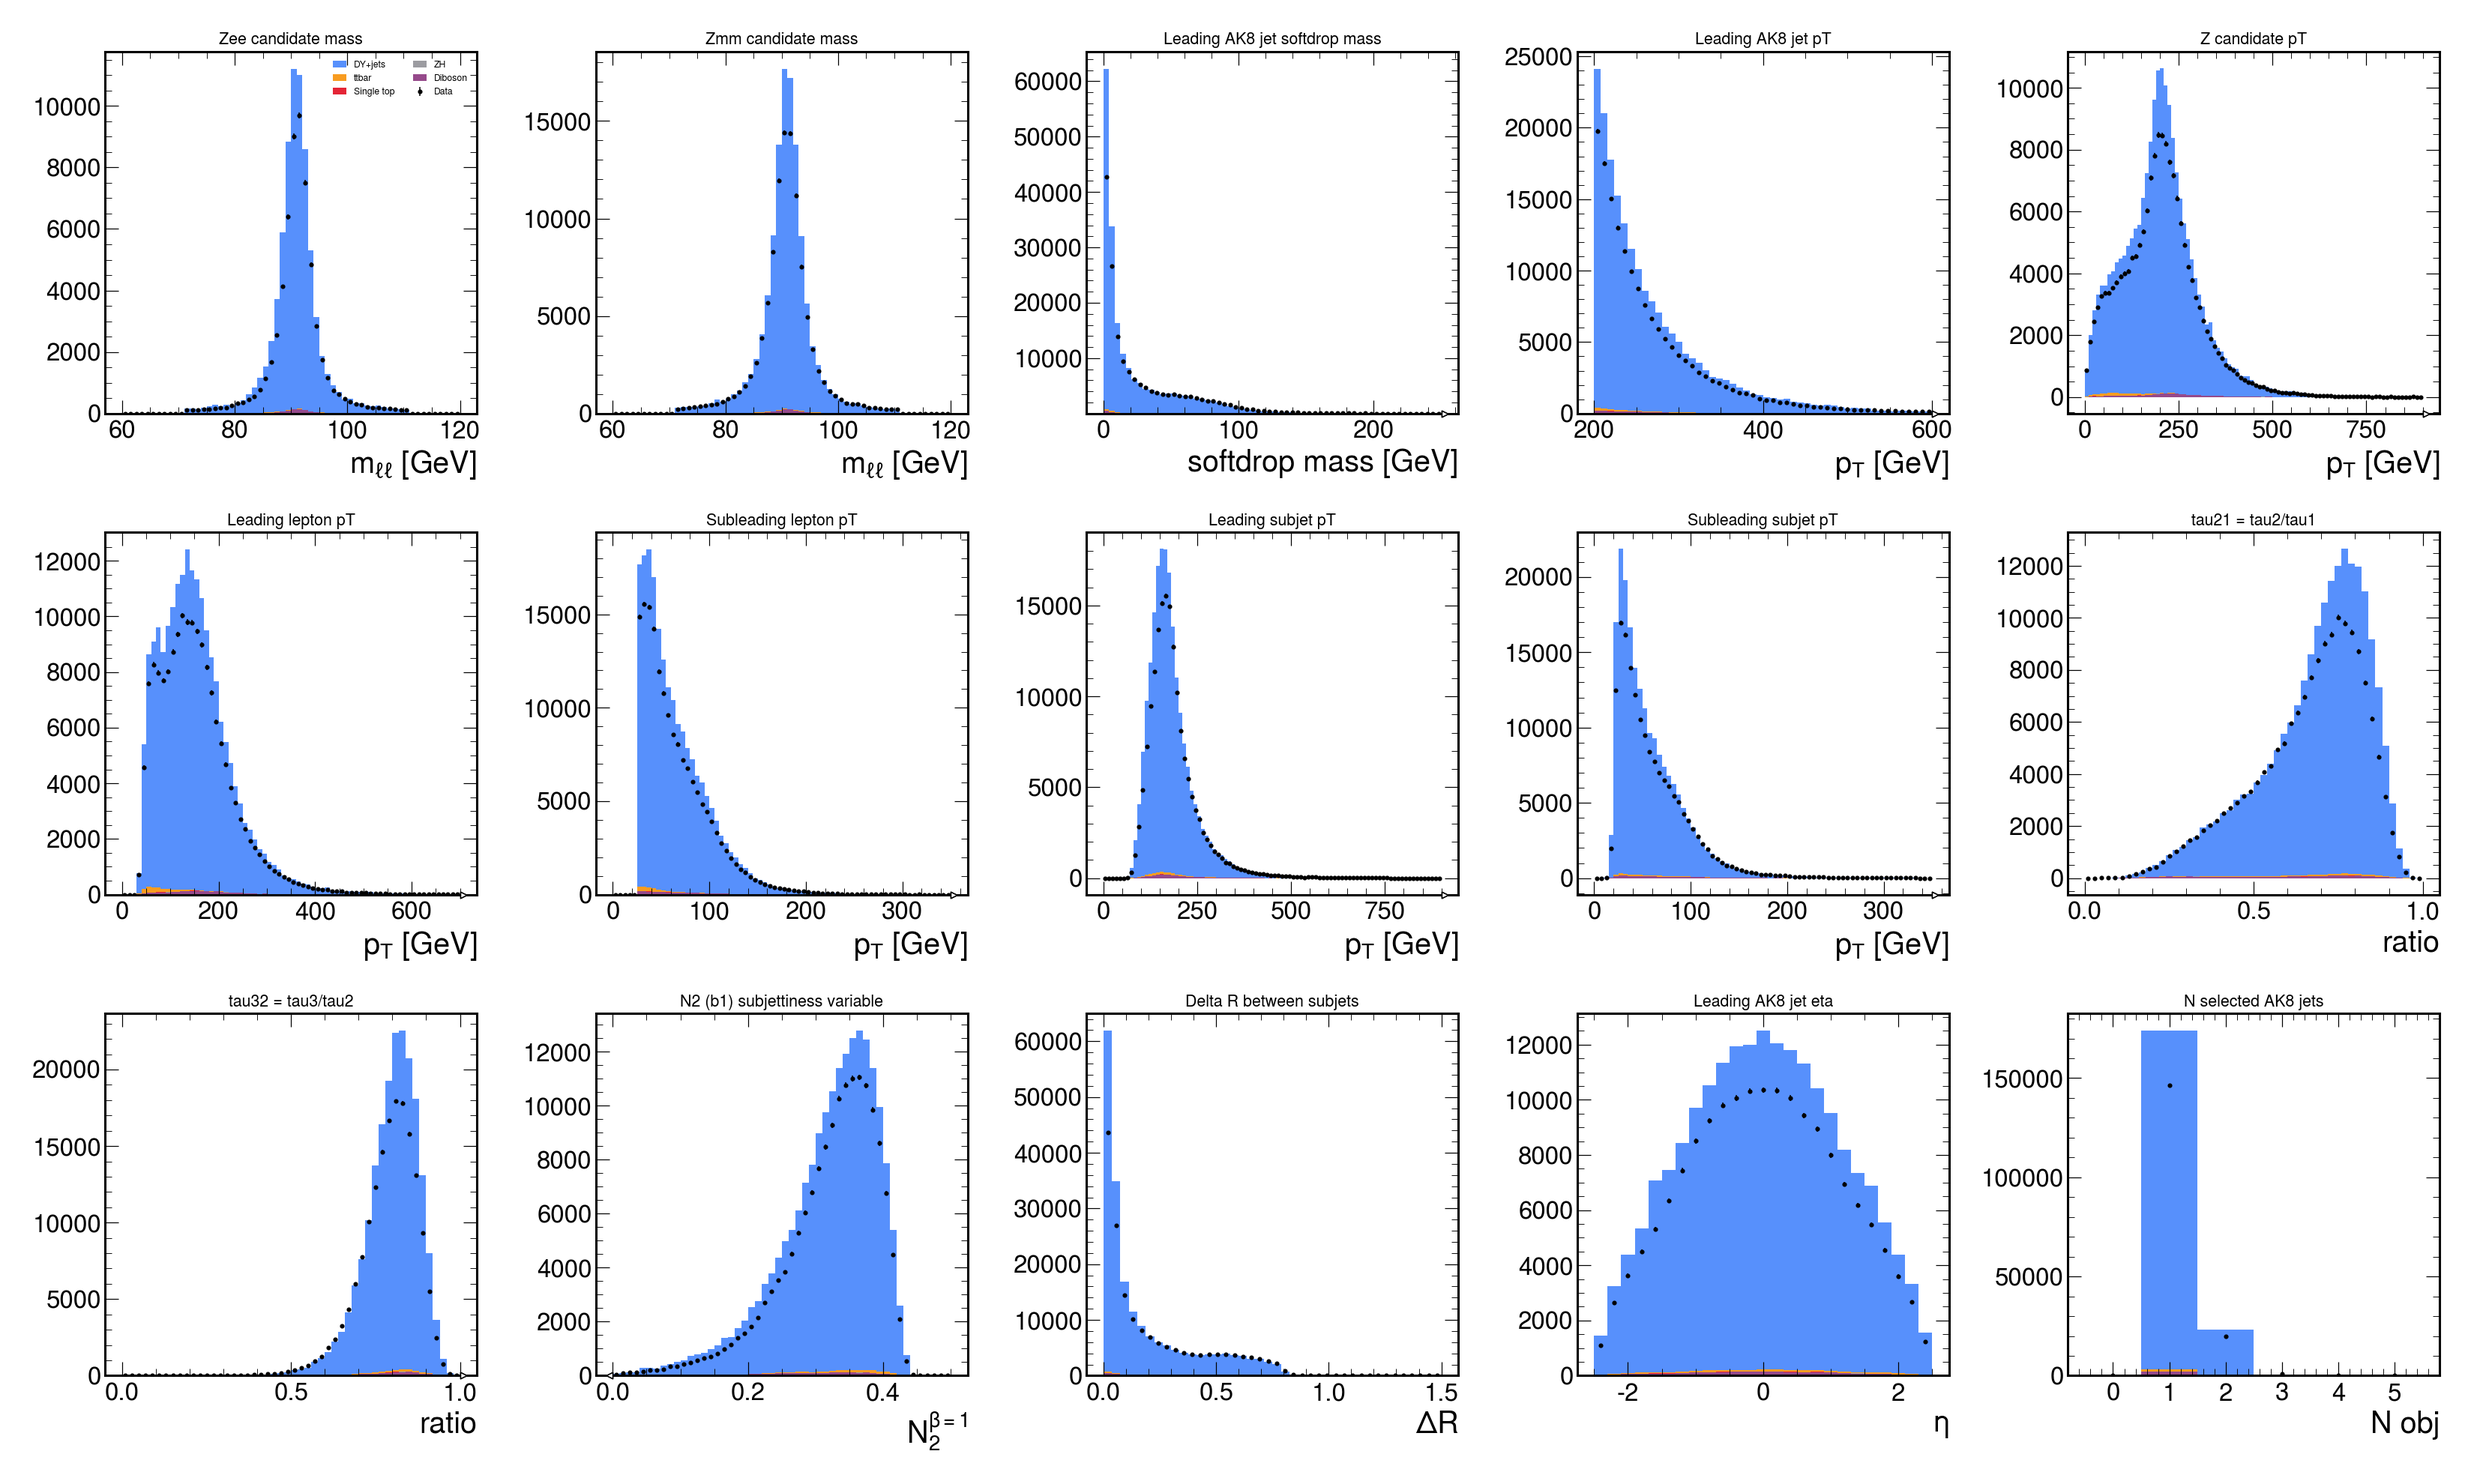
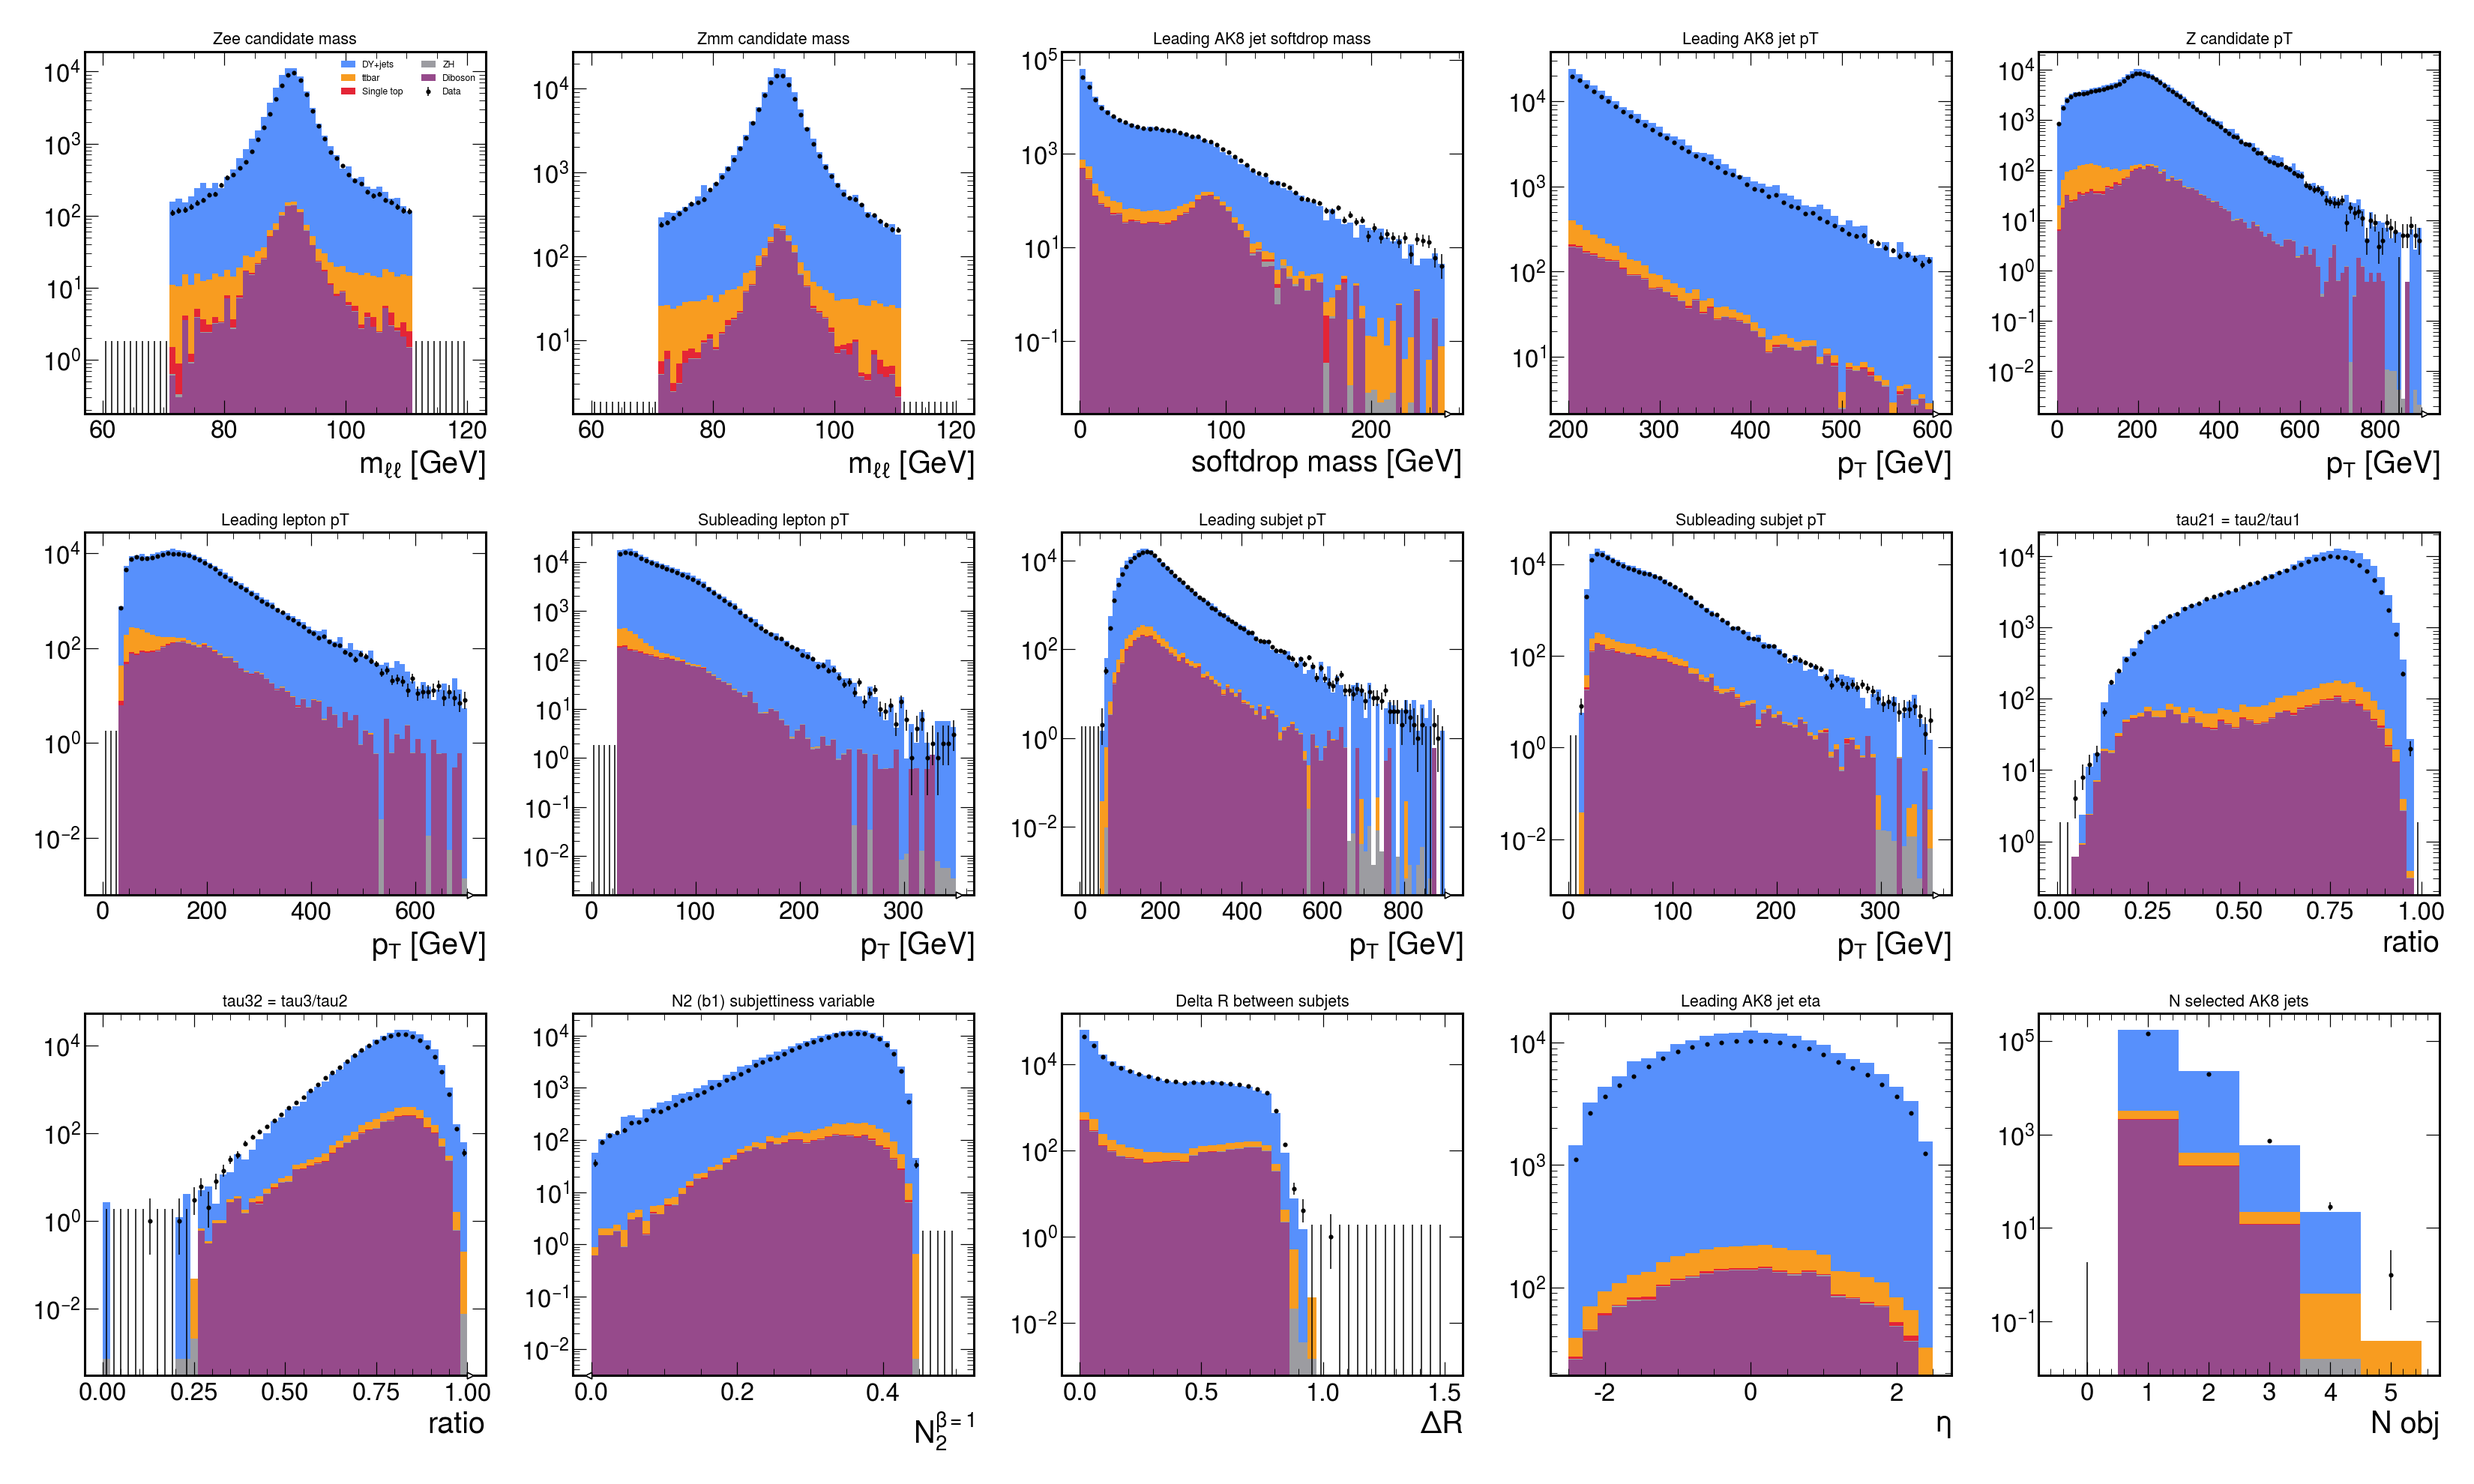
Switch stacked plots to log-scale y-axis by default; document data/MC gap root cause
plot_full_overview.py (all 15 panels) and plot_stack_sample.py (make_plot's
logy now defaults to True) now render log-scale by default -- linear scale
was hiding ttbar/single-top/diboson/ZH almost entirely under DY+jets;
log-scale shows them clearly everywhere, including the b-tagged Z_bjet
region where they become much more comparable to DY as expected.

Also root-caused the ~16% MC/data normalization gap found while comparing
scaled yields: QCD_validation.py:83 has `self.SF_map = load_SF(...)`
commented out, so weight_manager() gets SF_map=None and returns after only
adding genWeight -- no pileup reweighting, lepton ID/iso/trigger SFs, or
b-tagging SFs are applied anywhere in this workflow. Documented in
SESSION_NOTES.md; not fixed yet, flagged as a workflow-design decision.

diff --git a/plot_full_overview.py b/plot_full_overview.py
@@ -48,23 +48,23 @@ DATA_SAMPLES = ["EGamma_Run2018", "SingleMuon_Run2018"]
 COLORS = {"DY+jets": "#5790fc", "ttbar": "#f89c20", "Single top": "#e42536", "Diboson": "#964a8b", "ZH": "#9c9ca1"}
 ORDER = ["Diboson", "ZH", "Single top", "ttbar", "DY+jets"]
 
-# (histogram name, extra axis selections, axes to sum over, title)
+# (histogram name, extra axis selections, axes to sum over, title, log-scale y-axis)
 PLOTS = [
-    ("cmp_mass_zcand", {"channel": "Zee"}, ["region"], "Zee candidate mass"),
-    ("cmp_mass_zcand", {"channel": "Zmm"}, ["region"], "Zmm candidate mass"),
-    ("jet0_msoftdrop", {}, ["flav"], "Leading AK8 jet softdrop mass"),
-    ("jet0_pt", {}, ["flav"], "Leading AK8 jet pT"),
-    ("cmp_pt_zcand", {}, ["region", "channel"], "Z candidate pT"),
-    ("cmp_pt_lep0", {}, ["region", "channel"], "Leading lepton pT"),
-    ("cmp_pt_lep1", {}, ["region", "channel"], "Subleading lepton pT"),
-    ("cmp_pt_sub0", {}, ["region", "channel"], "Leading subjet pT"),
-    ("cmp_pt_sub1", {}, ["region", "channel"], "Subleading subjet pT"),
-    ("jet0_tau21", {}, ["flav"], "tau21 = tau2/tau1"),
-    ("jet0_tau32", {}, ["flav"], "tau32 = tau3/tau2"),
-    ("jet0_n2b1", {}, ["flav"], "N2 (b1) subjettiness variable"),
-    ("cmp_dr_subjets", {}, ["region", "channel"], "Delta R between subjets"),
-    ("jet0_eta", {}, ["flav"], "Leading AK8 jet eta"),
-    ("njet", {}, [], "N selected AK8 jets"),
+    ("cmp_mass_zcand", {"channel": "Zee"}, ["region"], "Zee candidate mass", True),
+    ("cmp_mass_zcand", {"channel": "Zmm"}, ["region"], "Zmm candidate mass", True),
+    ("jet0_msoftdrop", {}, ["flav"], "Leading AK8 jet softdrop mass", True),
+    ("jet0_pt", {}, ["flav"], "Leading AK8 jet pT", True),
+    ("cmp_pt_zcand", {}, ["region", "channel"], "Z candidate pT", True),
+    ("cmp_pt_lep0", {}, ["region", "channel"], "Leading lepton pT", True),
+    ("cmp_pt_lep1", {}, ["region", "channel"], "Subleading lepton pT", True),
+    ("cmp_pt_sub0", {}, ["region", "channel"], "Leading subjet pT", True),
+    ("cmp_pt_sub1", {}, ["region", "channel"], "Subleading subjet pT", True),
+    ("jet0_tau21", {}, ["flav"], "tau21 = tau2/tau1", True),
+    ("jet0_tau32", {}, ["flav"], "tau32 = tau3/tau2", True),
+    ("jet0_n2b1", {}, ["flav"], "N2 (b1) subjettiness variable", True),
+    ("cmp_dr_subjets", {}, ["region", "channel"], "Delta R between subjets", True),
+    ("jet0_eta", {}, ["flav"], "Leading AK8 jet eta", True),
+    ("njet", {}, [], "N selected AK8 jets", True),
 ]
 
 
@@ -109,7 +109,7 @@ def scaled_group_hists(histname, sel, sumaxes):
 fig, axes = plt.subplots(3, 5, figsize=(30, 18))
 axes = axes.flatten()
 
-for ax, (name, sel, sumaxes, title) in zip(axes, PLOTS):
+for ax, (name, sel, sumaxes, title, logy) in zip(axes, PLOTS):
     group_hists, data_hist = scaled_group_hists(name, sel, sumaxes)
     hep.histplot(
         [group_hists[g] for g in ORDER],
@@ -120,6 +120,8 @@ for ax, (name, sel, sumaxes, title) in zip(axes, PLOTS):
         ax=ax,
     )
     hep.histplot(data_hist, histtype="errorbar", color="black", label="Data", ax=ax)
+    if logy:
+        ax.set_yscale("log")
     ax.set_title(title, fontsize=14)
 
 axes[0].legend(fontsize=8, ncol=2)

diff --git a/plot_stack_sample.py b/plot_stack_sample.py
@@ -84,7 +84,7 @@ def scaled_hist(histname, region=None, channel=None):
     return group_hists, data_total
 
 
-def make_plot(histname, region, xlabel, ax, channel=None):
+def make_plot(histname, region, xlabel, ax, channel=None, logy=True):
     group_hists, data_hist = scaled_hist(histname, region, channel)
     order = ["Diboson", "ZH", "Single top", "ttbar", "DY+jets"]
     hep.histplot(
@@ -96,6 +96,8 @@ def make_plot(histname, region, xlabel, ax, channel=None):
         ax=ax,
     )
     hep.histplot(data_hist, histtype="errorbar", color="black", label="Data", ax=ax)
+    if logy:
+        ax.set_yscale("log")
     ax.set_xlabel(xlabel)
     ax.set_ylabel(f"Events / bin")
     title = region or histname
@@ -117,7 +119,7 @@ plt.savefig(outpath, dpi=130)
 print("saved", outpath)
 
 fig2, axes2 = plt.subplots(1, 2, figsize=(20, 8))
-make_plot("cmp_pt_fj", "Z_jet", r"Leading AK8 jet $p_{T}$ [GeV]", axes2[0])
+make_plot("cmp_pt_fj", "Z_jet", r"Leading AK8 jet $p_{T}$ [GeV]", axes2[0], logy=True)
 make_plot("jet0_particleNetMD_Xbb", None, "ParticleNetMD Xbb score", axes2[1])
 plt.tight_layout()
 outpath2 = f"{REPO}/qcd_sf_2018_sample_stack2.png"

diff --git a/SESSION_NOTES.md b/SESSION_NOTES.md
@@ -1,6 +1,67 @@
 # Session notes: QCD_sf boosted Zbb — LPC condor scale-up
 
-## STATUS AS OF 2026-09-07 03:00 CDT, READ THIS FIRST — full 16-dataset run COMPLETE via per-dataset split
+## STATUS AS OF 2026-09-07 (later same day) — plots now all log-scale; found root cause of data/MC normalization gap
+
+**Log-scale plots**: `plot_full_overview.py` (all 15 panels) and `plot_stack_sample.py`
+(all panels, `make_plot(..., logy=True)` now the default) were switched to
+log-scale y-axes. This is now the standing default for these two scripts —
+keep it log-scale going forward, don't revert to linear. Linear scale was
+hiding the sub-dominant backgrounds (ttbar, single top, diboson, ZH)
+almost completely under DY+jets; log-scale reveals them clearly across the
+full range, including down in the `Z_bjet` (b-tagged) region where ttbar
+and diboson become much more comparable to DY, as physically expected.
+
+**Root cause found for the data/MC normalization gap** (MC ~16% high vs.
+data, first noticed comparing total scaled yields): in
+`src/BTVNanoCommissioning/workflows/QCD_validation.py:83`, the line
+```python
+#self.SF_map = load_SF(self._year, self._campaign)
+```
+is commented out. This means `self.SF_map` is never set, and
+`weight_manager()` (`utils/correction.py:3924`) receives `SF_map=None`,
+which makes it return immediately after adding only `genweight` to the
+event weight:
+```python
+if "genWeight" in pruned_ev.fields:
+    weights.add("genweight", pruned_ev.genWeight)
+if SF_map is None:
+    return weights
+```
+So **no pileup reweighting, no muon/electron ID-iso-trigger SFs, and no
+b-tagging SFs are applied anywhere in this workflow** — every MC event's
+weight is just its raw `genWeight`. The framework already has `puwei`,
+`muSFs`, `eleSFs`, `btagSFs` fully implemented and ready to use, just not
+wired in for `QCD_sf`. This is the concrete, code-level explanation for
+the MC/data normalization offset, and likely also contributes to shape-
+level mismatches (anything correlated with pileup or lepton kinematics).
+Also confirmed: no golden-JSON/certified-lumi mask (`LumiMask`, exists in
+`utils/correction.py`) is applied to the data samples either — a smaller
+but real additional gap.
+**Not yet fixed** — flagged to the user as a workflow-design decision
+(whether/how to enable `load_SF` for `QCD_sf`) rather than acted on
+unilaterally; likely worth raising with Hsin-Wei before touching it, since
+enabling it might require correction-JSON files that need to be confirmed
+present for 2018-UL.
+
+**Cutflow reference file**: `cutflow_full_16dataset_run.log` (repo root,
+regenerated from the merged `.coffea`, not committed — see `.gitignore`
+note below) reproduces the same format as the earlier `output_with_hist.log`
+per-chunk printout, but aggregated over the full merged run: general
+cutflow (`Total Events` → `ele_*`/`mu_*` preselection → `Jet cutflow:`
+block) plus separate `Zee cutflow:` and `Zmm cutflow:` blocks per dataset,
+plus `sumw`. Regenerate anytime via `coffea.util.load` on the merged
+output — see the merge script's docstring/[[zbb_boosted_qcd_task]] memory
+for the exact snippet.
+
+**Reminder — `.coffea` outputs are gitignored, local-only**: the merged
+and per-dataset `.coffea` files (`hists_QCD_sf_QCD_sf_run2018_all/`) are
+excluded from git by this repo's existing `*.coffea`/`hists_*` rules, so
+they are **not** part of any commit — only the code and PNG plots are
+version-controlled. They currently exist only on this LPC `nobackup` disk.
+See exact paths in the `zbb_boosted_qcd_task` Claude memory entry if
+picking this up in a fresh session.
+
+## STATUS AS OF 2026-09-07 03:00 CDT (superseded by above) — full 16-dataset run COMPLETE via per-dataset split
 
 **TL;DR**: Following a suggestion from Hsin-Wei, restructured the full-scale
 submission from one combined 16-dataset job into 16 independent per-dataset
